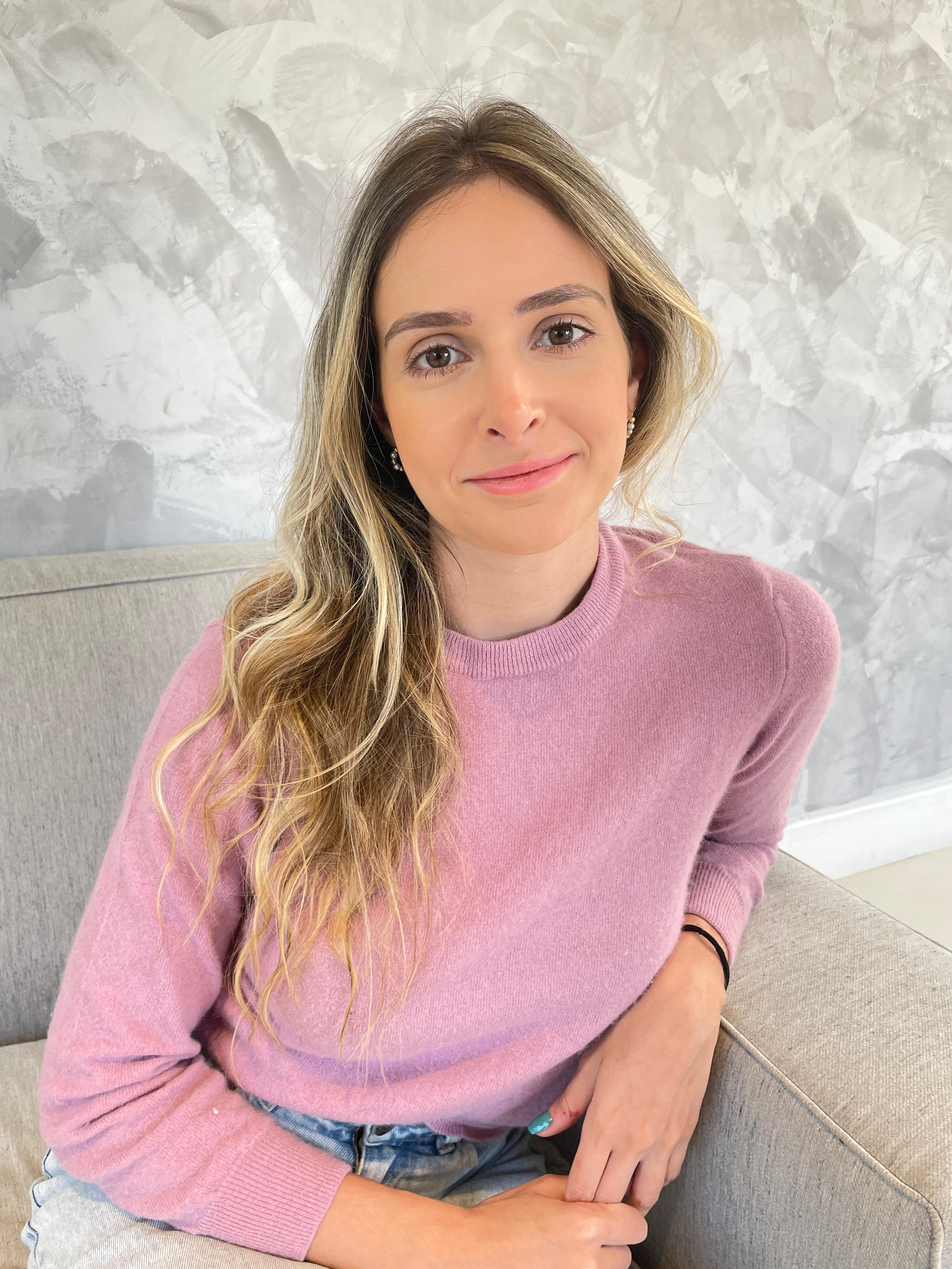
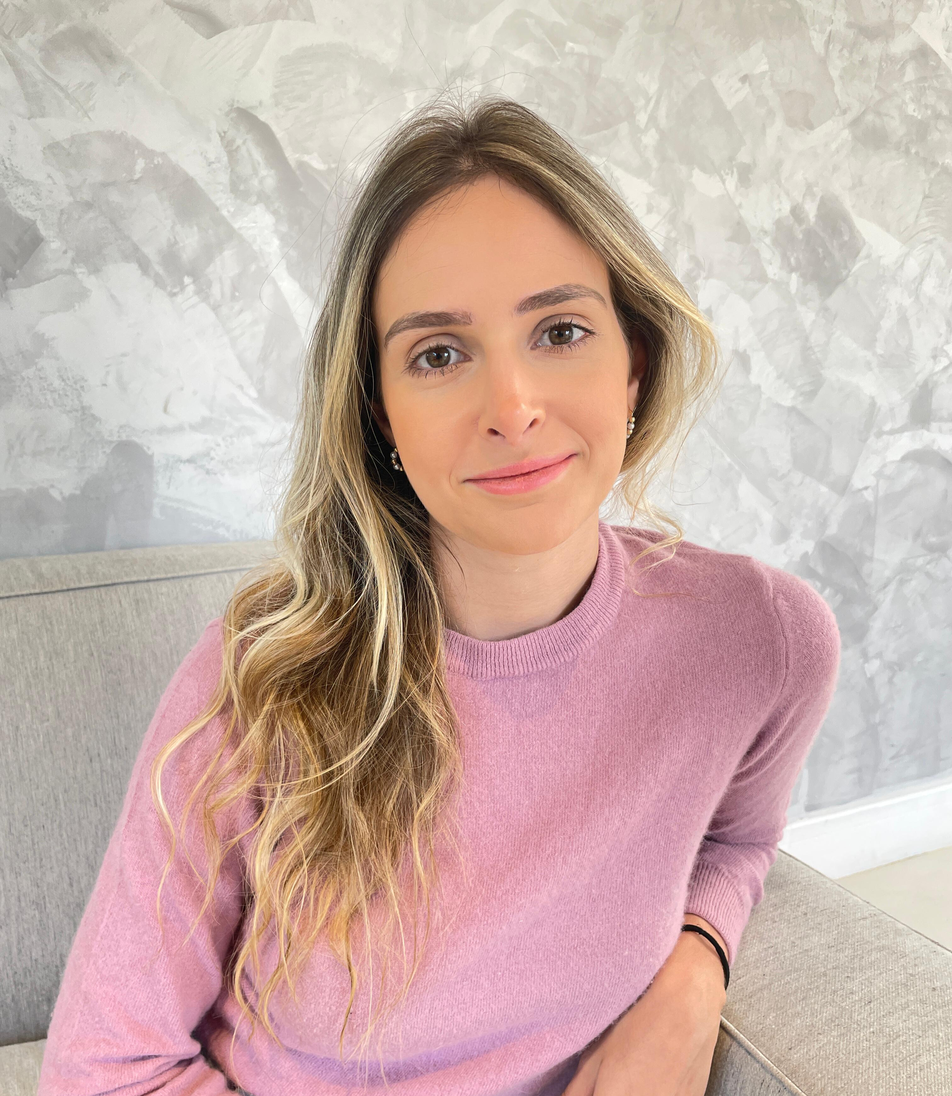
refactor: Update image paths and optimize layout in Presentation component

diff --git a/src/sections/Presentation/index.tsx b/src/sections/Presentation/index.tsx
@@ -16,12 +16,12 @@ import { PRESENTATION_DATA } from "@/data";
 
 const PresentationImage: React.FC = () => {
   return (
-    <div className="relative w-full h-[calc(100vh-80px)] md:h-full md:w-1/3">
+    <div className="relative w-full h-[320px] md:h-full md:w-1/3">
       <Image
         layout="fill"
         alt="Isa Front Image"
         className="object-cover object-top"
-        src="/images/isa-front-image.jpg"
+        src="/images/bg.jpg"
       />
     </div>
   );
@@ -33,7 +33,7 @@ const Presentation: React.FC = () => {
       id="apresentacao"
       className="relative flex flex-col-reverse md:flex-row items-center md:h-[calc(100vh-80px)] max-w-screen -mb-10 md:mb-12"
     >
-      <div className="mt-5 flex-1 md:w-2/3 flex flex-col justify-center items-center md:items-start px-4 md:px-8">
+      <div className="mt-5 flex-1  flex flex-col justify-center items-center md:items-start px-4 md:px-8">
         <div className="flex flex-col items-center md:items-start text-quaternary gap-2 md:gap-4">
           <motion.h1
             {...FADE_IN_BASIC_ANIMATION}
@@ -50,13 +50,13 @@ const Presentation: React.FC = () => {
         </div>
         <motion.p
           {...FADE_IN_BASIC_ANIMATION}
-          className="text-sm text-quaternary max-w-[70%] mx-auto md:mx-0 md:max-w-[50%] text-center md:text-left py-3 md:py-5"
+          className="text-sm text-quaternary max-w-[70%] mx-auto md:mx-0 md:max-w-[75%] text-center md:text-left py-3 md:py-5"
         >
           {PRESENTATION_DATA.description}
         </motion.p>
         <motion.p
           {...FADE_IN_BASIC_ANIMATION}
-          className="text-sm text-quaternary max-w-[70%] mx-auto md:mx-0 md:max-w-[45%] text-center md:text-left pb-3 md:pb-5 font-semibold"
+          className="text-sm text-quaternary max-w-[70%] mx-auto md:mx-0 md:max-w-[75%] text-center md:text-left pb-3 md:pb-5 font-semibold"
         >
           {PRESENTATION_DATA.preCta}
         </motion.p>
